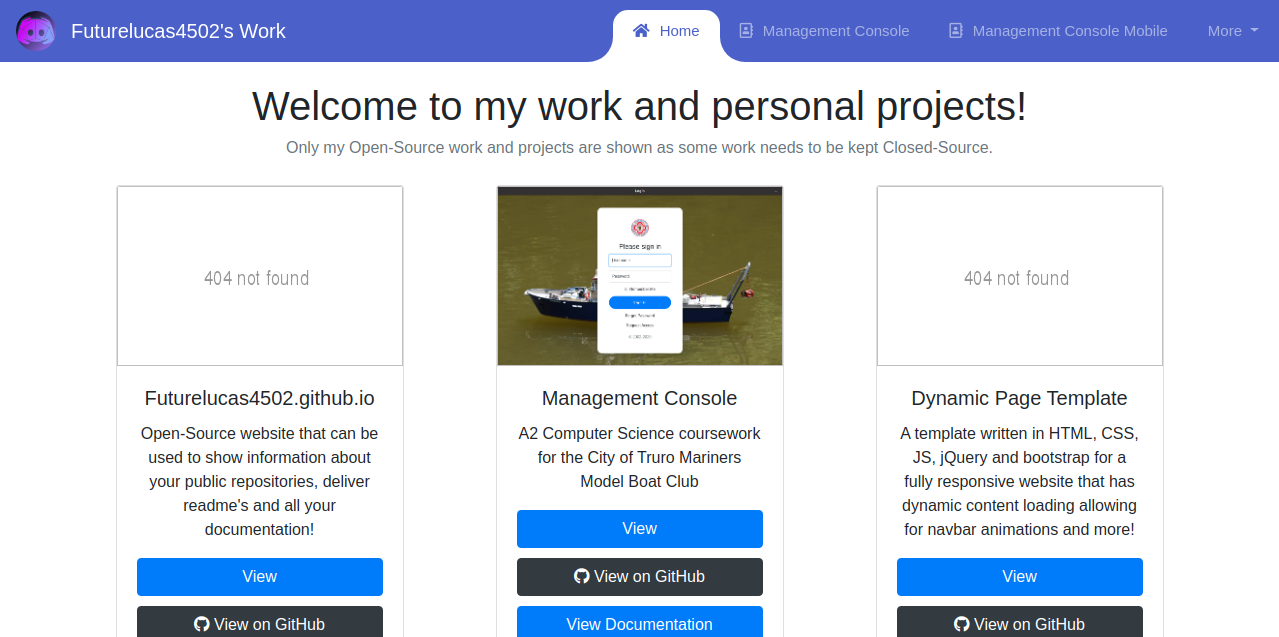
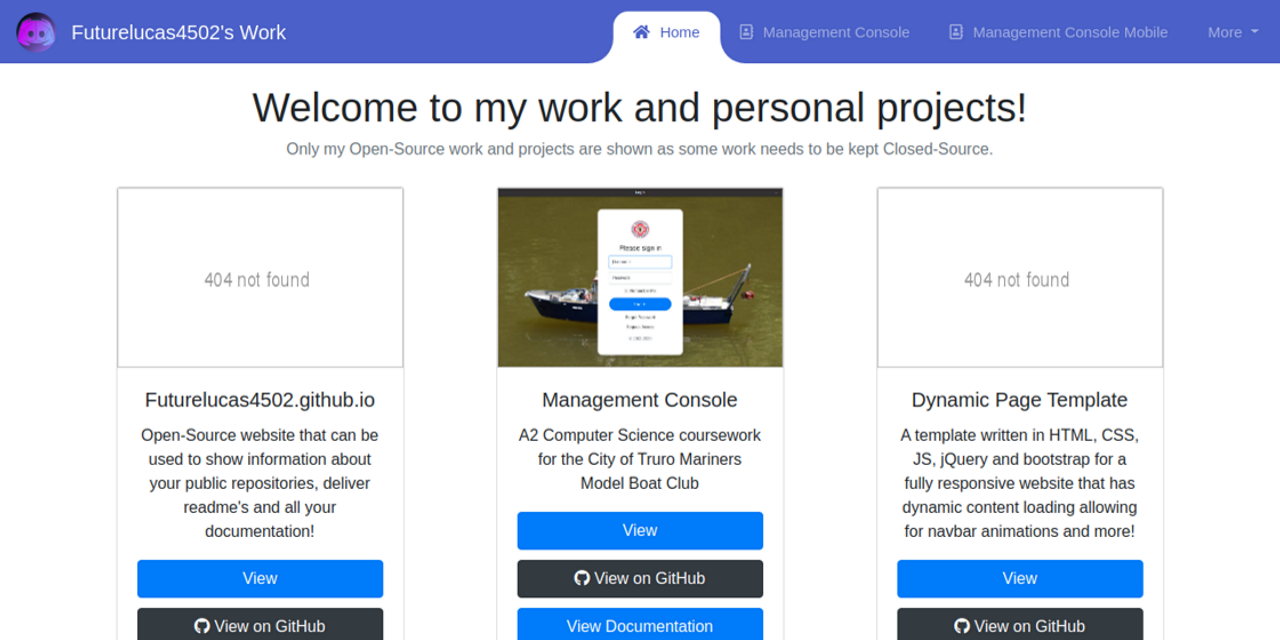
change image size slightly

diff --git a/_layouts/default.html b/_layouts/default.html
@@ -23,9 +23,9 @@
 
     <meta property="og:image" content="https://futurelucas4502.github.io/assets/screenshot.png">
 
-    <meta property="og:image:width" content="1279">
+    <meta property="og:image:width" content="1280">
 
-    <meta property="og:image:height" content="637">
+    <meta property="og:image:height" content="640">
 
     <meta property="og:url" content="https://futurelucas4502.github.io">
 

diff --git a/index.html b/index.html
@@ -14,9 +14,9 @@
 
     <meta property="og:image" content="https://futurelucas4502.github.io/assets/screenshot.png">
 
-    <meta property="og:image:width" content="1279">
+    <meta property="og:image:width" content="1280">
 
-    <meta property="og:image:height" content="637">
+    <meta property="og:image:height" content="640">
 
     <meta property="og:url" content="https://futurelucas4502.github.io">
 
